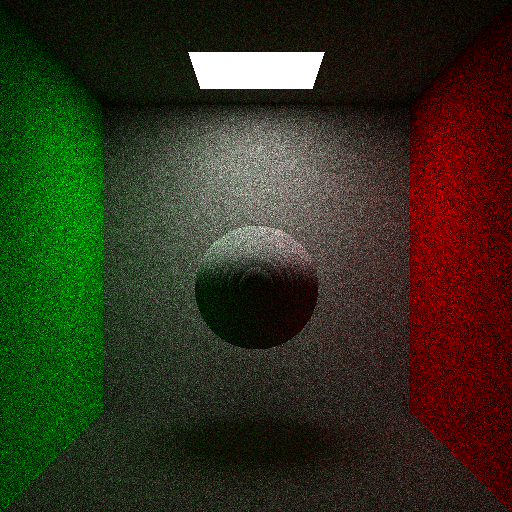
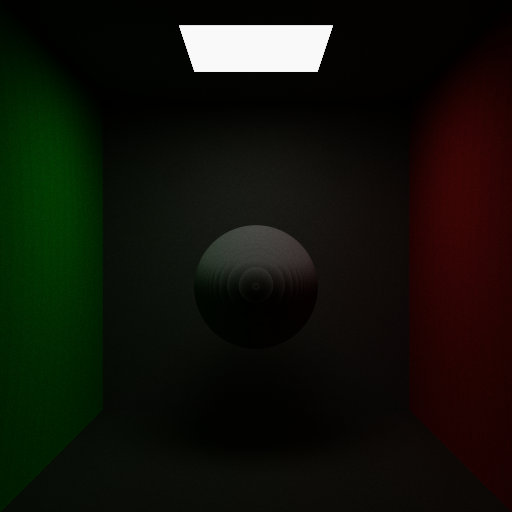
post processing

diff --git a/src/main.rs b/src/main.rs
@@ -33,6 +33,7 @@ macro_rules! cond {
 	}
 }
 
+/*
 macro_rules! color {
 	($r:expr,$g:expr,$b:expr,$a:expr) => {
 		Color::new($r as f32, $g as f32, $b as f32, $a as f32)
@@ -41,6 +42,7 @@ macro_rules! color {
 		Color::new($x as f32, $x as f32, $x as f32, $x as f32)
 	};
 }
+*/
 
 struct Hit {
 	distance: f32,
@@ -90,9 +92,9 @@ impl MyShader {
 
 	fn emissive(&self, p: Float3) -> Float3 {
 		let light_size = 2.0;
-		if f32::abs(p.x) < light_size && f32::abs(p.z) < light_size {
+		if f32::abs(p.x) < light_size && f32::abs(p.z+2.0) < light_size {
 			if p.y + 0.01 > self.half_dims.y {
-				return float3![1.0];
+				return float3![4.0];
 			}
 		}
 		return float3![0.0];
@@ -103,8 +105,8 @@ impl MyShader {
 		if f32::abs(p.x) + d >= self.half_dims.x {
 			return cond![
 				p.x > 0.0,
-				float3![1,0,0],
-				float3![0,1,0]
+				float3![1,0.2,0.2],
+				float3![0.1,1,0.1]
 			];
 		}
 		else {
@@ -164,10 +166,10 @@ impl MyShader {
 impl Shader for MyShader {
 
 	fn main(&mut self, fragCoord: Float3, resolution: Float3) -> Float3 {
-		let u =       fragCoord.x / resolution.x;
-		let v = 1.0 - fragCoord.y / resolution.y;
+		let jitter = float3![self.random.uniform(), self.random.uniform(), 0.0];
+		let uv = (fragCoord + jitter) / resolution;
 		let camera = float3![0, 0, -20];
-		let dir = self.unproject(float3![u, v, 0.0]);
+		let dir = self.unproject(float3![uv.x, uv.y, 0.0]);
 
 		let mut P = camera;
 		let mut D = dir;
@@ -192,82 +194,97 @@ impl Shader for MyShader {
 
 } // impl Shader
 
+fn ACESFilm(x: Float3) -> Float3 {
+	let a = 2.51;
+	let b = 0.03;
+	let c = 2.43;
+	let d = 0.59;
+	let e = 0.14;
+	return saturate((x*(a*x+b))/(x*(c*x+d)+e));
+}
+
+fn exposure(value: Float3, e: f32) -> Float3 {
+	f32::exp2(e) * value
+}
+
 struct PathTracer<T> {
 	shader: T,
-	image: Buffer<Color>,
+	image: Buffer<Float3>,
+	exposure: f32
 }
 
 impl<T: Shader> PathTracer<T> {
 	
-	fn new(shader: T, image: Buffer::<Color>) -> Self {
-		return Self { shader, image };
+	fn new(shader: T, image: Buffer::<Float3>) -> Self {
+		return Self { shader, image, exposure: 0.0 };
 	}
 
 	fn render(&mut self, iterations: u32) {
-		let resolution = float3![self.image.width(), self.image.height(), 0];
-		let factor = 1.0 / (iterations as f32);
-		let f = |i,j,color: &Color| {
-			let frag_coord = float3![i, j, 0];
+		let w = self.image.get_width();
+		let h = self.image.get_height();
+		let resolution = float3![w,h,0];
+		let e = 0.0; // exposure
+		let f = |i,j,&prev_color: &Float3| {
+			let frag_coord = float3![i, h-j-1, 0];
 			let mut frag_color = float3![0];
 			for _ in 0..iterations {
-				frag_color = frag_color + factor * self.shader.main(frag_coord, resolution);
+				let c = self.shader.main(frag_coord, resolution);
+				frag_color = frag_color + exposure(c, e);
 			}
-			return Color::new(color.r+frag_color.x, color.g+frag_color.y, color.b+frag_color.z, 1.0);
+			return frag_color / (iterations as f32) + prev_color;
 		};
 		self.image.fill(f);
 	}
 
-	fn saturate(x: f32) -> f32 {
-		if x != x {
-			return x;
-		}
-		else if x < 0.0 {
-			return 0.0;
-		}
-		else if x > 1.0 {
-			return 1.0;
-		}
-		else {
-			return x;
-		}
+	fn image(&self) -> &Buffer<Float3> {
+		return &self.image;
 	}
 
-	fn save(&self, path: &Path) -> Result<(), png::EncodingError> {
+} // impl PathTracer
 
-		let file = File::create(path).unwrap();
-		let ref mut output = BufWriter::new(file);
+fn quantize_to_8bits(value: f32) -> u8 {
+	return f32::floor(saturate(value) * 255.9) as u8;
+}
 
-		let w = self.image.width();
-		let h = self.image.height();
+fn postprocess(image: &Buffer<Float3>) -> Buffer<Float3> {
+	return image.map(|x| ACESFilm(*x));
+}
 
-		let mut encoder = png::Encoder::new(output, w as u32, h as u32);
-		encoder.set_color(png::ColorType::Rgba);
-		encoder.set_depth(png::BitDepth::Eight);
-		encoder.set_srgb(png::SrgbRenderingIntent::RelativeColorimetric);
-	
-		let mut writer = encoder.write_header().unwrap();
+fn save_image(image: &Buffer<Float3>, path: &Path) -> Result<(), png::EncodingError> {
 
-		let data: Vec<u8> = self.image.pixels().iter()
-			.flat_map(|px| [px.r,px.g,px.b,px.a])
-			.map(|x| f32::floor(Self::saturate(x)*255.5_f32) as u8)
-			.collect();
+	let file = File::create(path).unwrap();
+	let ref mut output = BufWriter::new(file);
 
-		return writer.write_image_data(&data);
-	}
+	let w = image.get_width();
+	let h = image.get_height();
 
+	let mut encoder = png::Encoder::new(output, w as u32, h as u32);
+	encoder.set_color(png::ColorType::Rgba);
+	encoder.set_depth(png::BitDepth::Eight);
+	encoder.set_srgb(png::SrgbRenderingIntent::RelativeColorimetric);
+
+	let mut writer = encoder.write_header().unwrap();
+
+	let data: Vec<u8> = image.get_pixels().iter()
+		.flat_map(|px| [px.x,px.y,px.z,1.0])
+		.map(quantize_to_8bits)
+		.collect();
+
+	return writer.write_image_data(&data);
 }
 
 fn main() {
 	let shader = MyShader::new();
-	let res = 512;
+	let w = 512;
+	let h = w;
 	let num_samples = 16;
-	let mut pt = PathTracer::new(
-		shader,
-		Buffer::<Color>::new(res,res,color![0,0,0,0]));
+	let image = Buffer::<Float3>::new(w,h,float3![0,0,0]);
+	let mut pt = PathTracer::new(shader, image);
 	let mut i = 1;
 	loop {
 		pt.render(num_samples);
-		pt.save(Path::new("image.png")).unwrap();
+		let image = postprocess(&pt.image().map(|&value| value / (i as f32)));
+		save_image(&image, Path::new("image.png")).unwrap();
 		println!("iteration {} saved", i);
 		i += 1;
 	}

diff --git a/src/buffer.rs b/src/buffer.rs
@@ -26,16 +26,37 @@ impl<T: Copy> Buffer<T> {
 		}
 	}
 
-	pub fn width(&self) -> usize {
+	pub fn map<F,R>(&self, f: F) -> Buffer<R>
+		where F: FnMut(&T) -> R
+	{
+		let pixels: Vec<_> = self.get_pixels().iter().map(f).collect();
+		return Buffer {
+			width: self.get_width(),
+			height: self.get_height(),
+			pixels: pixels
+		};
+	}
+
+	pub fn get_width(&self) -> usize {
 		return self.width;
 	}
 
-	pub fn height(&self) -> usize {
+	pub fn get_height(&self) -> usize {
 		return self.height;
 	}
 
-	pub fn pixels(&self) -> &Vec<T> {
+	pub fn get_pixels(&self) -> &Vec<T> {
 		return &self.pixels;
 	}
 
+}
+
+impl<T: Copy> Clone for Buffer<T> {
+	fn clone(&self) -> Self {
+		return Buffer {
+			width: self.width,
+			height: self.height,
+			pixels: self.pixels.to_vec()
+		}
+	}
 }

diff --git a/src/numeric/mod.rs b/src/numeric/mod.rs
@@ -18,6 +18,40 @@ pub fn dot<T: Vector>(u: T, v: T) -> f32 {
 	return T::dot(u, v);
 }
 
+pub trait Saturate {
+	fn saturate(x: Self) -> Self;
+}
+
+impl Saturate for f32 {
+	fn saturate(x: f32) -> f32 {
+		if x != x {
+			return x;
+		}
+		else if x < 0.0 {
+			return 0.0;
+		}
+		else if x > 1.0 {
+			return 1.0;
+		}
+		else {
+			return x;
+		}
+	}
+}
+
+impl Saturate for Float3 {
+	fn saturate(v: Float3) -> Float3 {
+		return Self::new(f32::saturate(v.x), f32::saturate(v.y), f32::saturate(v.z));
+	}
+}
+
+pub fn saturate<T>(value: T) -> T
+	where T: Copy+Saturate
+{
+	return T::saturate(value);
+}
+
+
 use std::ops::{Add,Sub,Mul,Div};
 
 pub trait Vector
